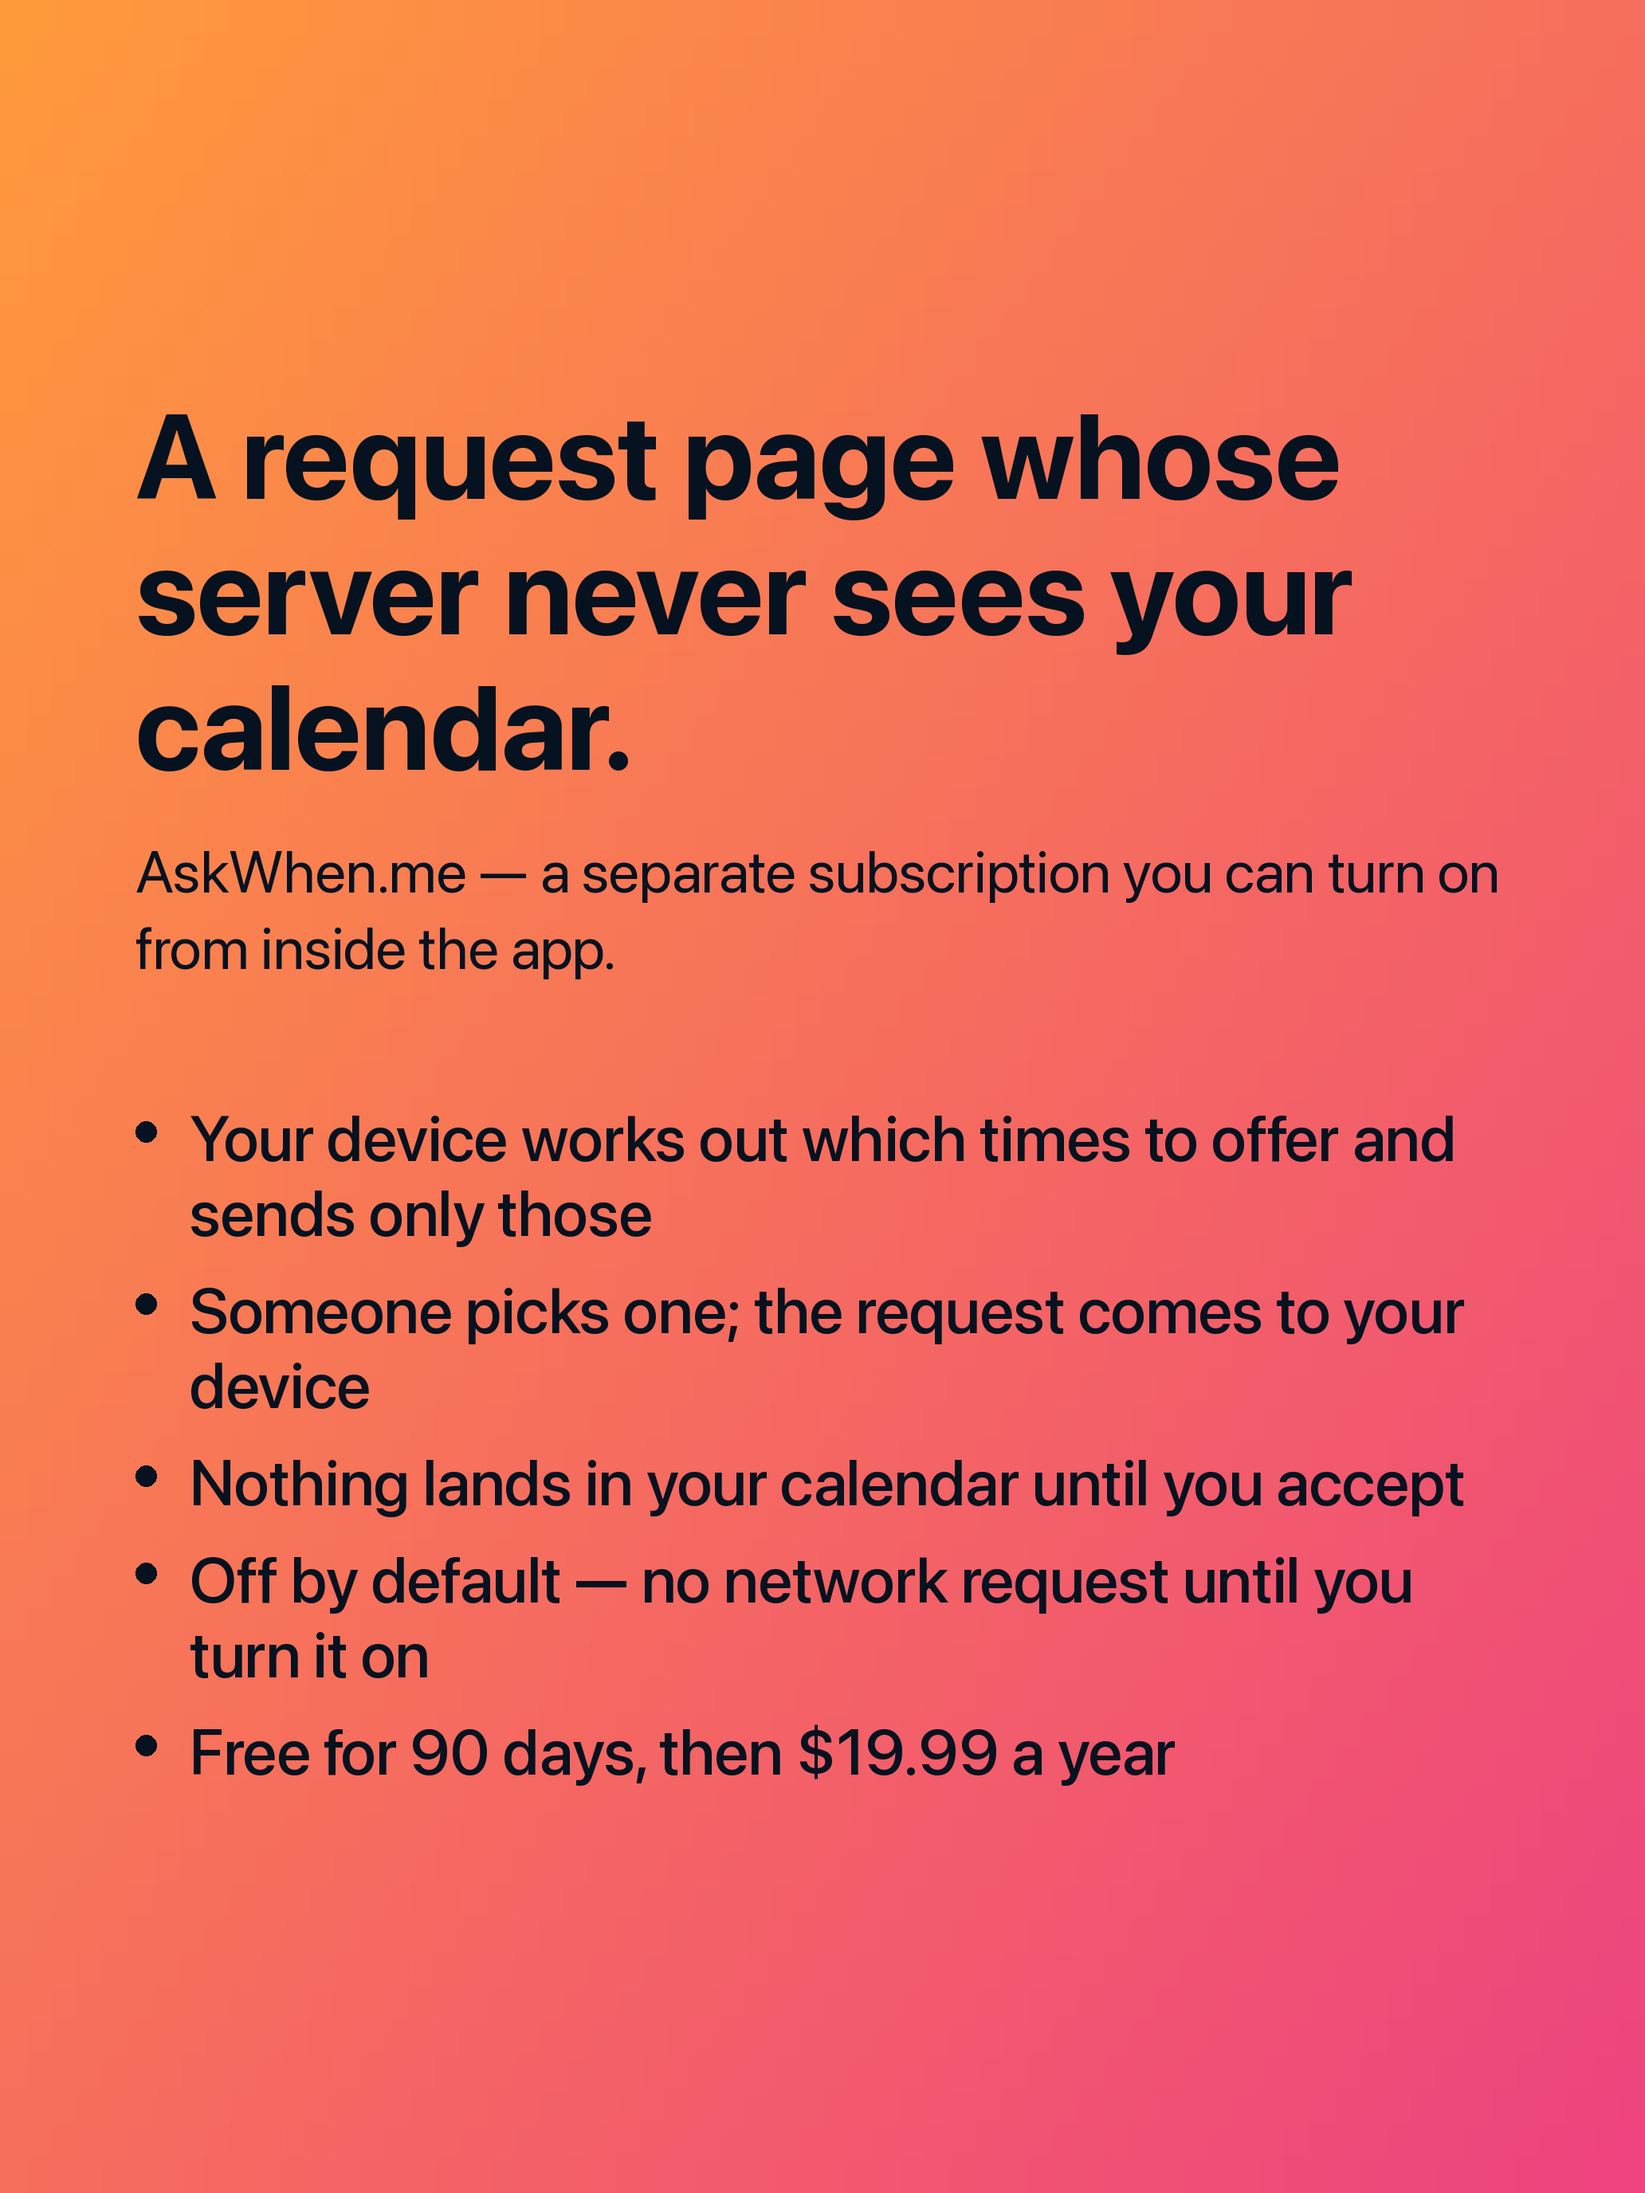
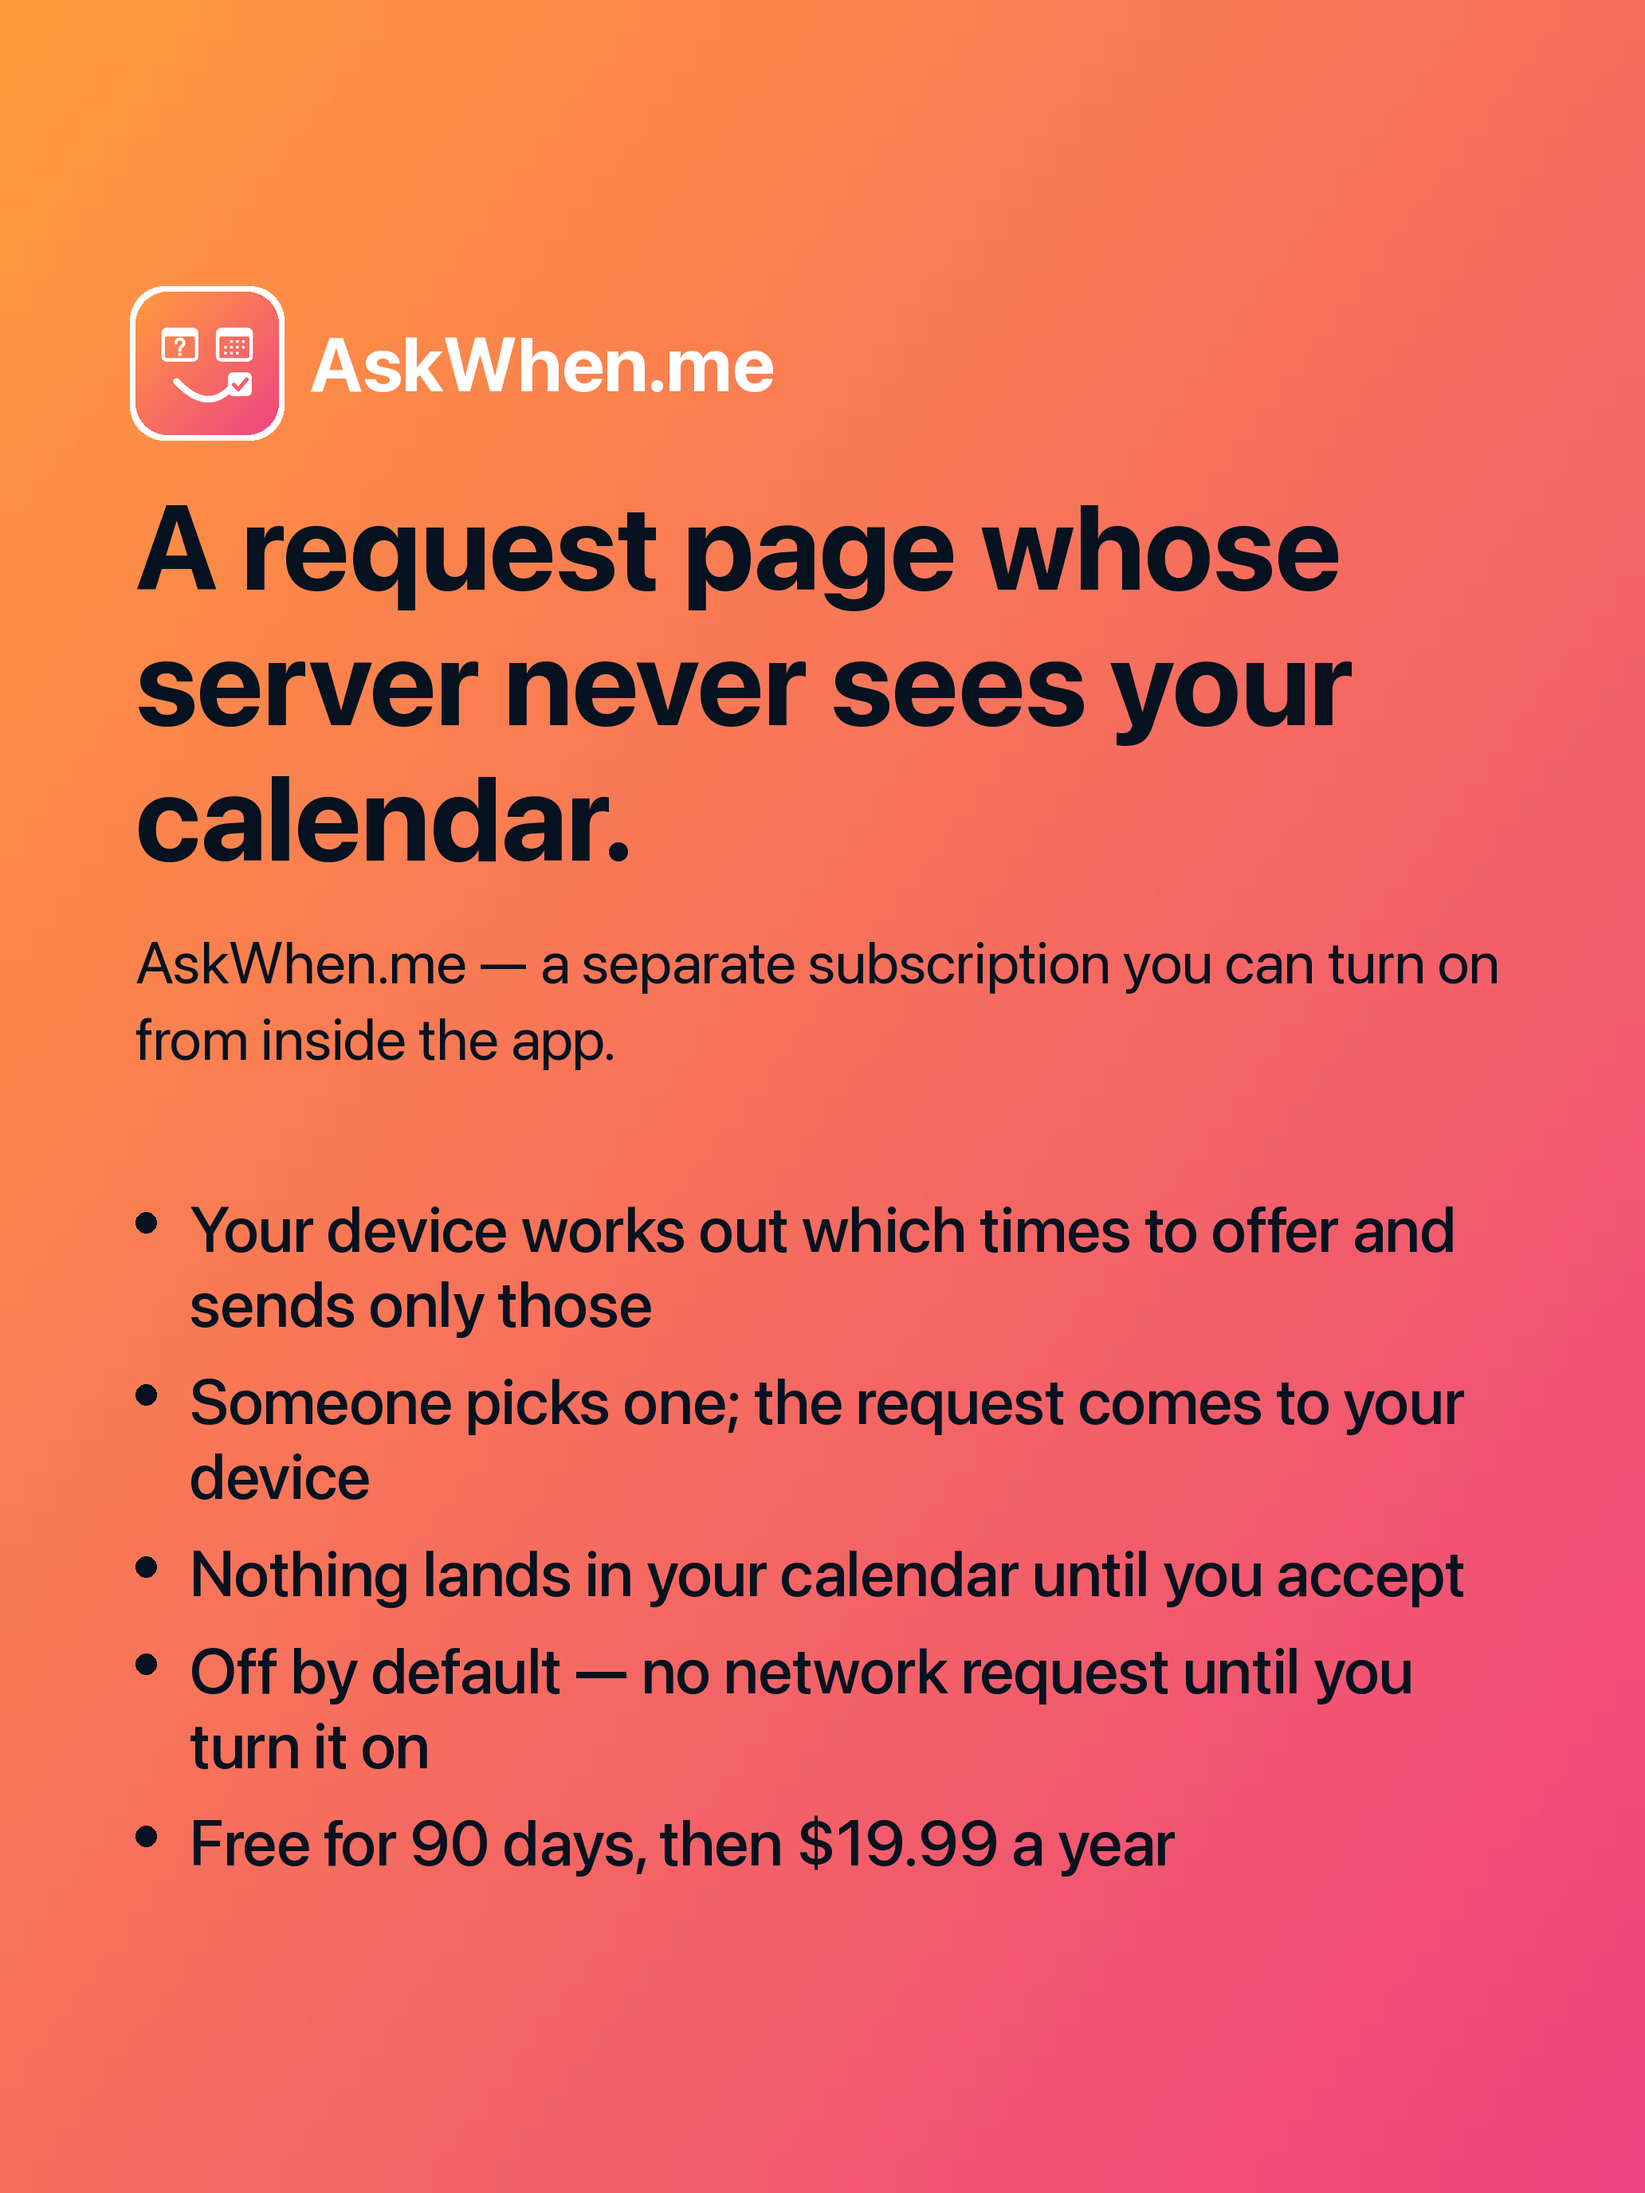
Store frame 9 carries the mark and the name
Matt, 17 Sept: the AskWhen.me frame should say whose it is. The mark in a
white ring and "AskWhen.me" in white sit as one row above the headline on
iPhone, iPad and Mac — a lockup, and the one place white sits on the warm
gradient; the frame's words stay ink. Recorded as an exception under the
palette entry in decisions.md. The iPhone crop is shorter to keep the
shot's bottom margin under the taller heading.

Changed region(s): [[0.062, 0.125, 0.8992, 0.875]]

diff --git a/appstore/tools/genstore.py b/appstore/tools/genstore.py
@@ -94,6 +94,43 @@ def rounded(im, radius):
     return im
 
 
+# The AskWhen.me mark beside its name, above a frame that is about AskWhen.me
+# rather than Calendar Mirror: a lockup, in white, with a white ring around
+# the mark so it separates from the gradient it was cut from. Matt's call
+# (17 Sept) and the one place white sits on the warm gradient — a lockup at
+# this size is a logo, not copy; the frame's words stay ink. Per platform:
+# (mark px, name px, ring px, gap under the row).
+BRAND = {"iphone": (150, 84, 6, 40), "ipad": (180, 96, 7, 48), "mac": (84, 44, 3, 22)}
+
+
+def brand_row(base, platform, x, y, max_w, align="left"):
+    """Draw the ringed mark and "AskWhen.me" as one row; return the y below it."""
+    msz, fsz, ring, gap = BRAND[platform]
+    mark = Image.open(os.path.join(HERE, os.pardir, "sources", "askwhen-promo-1024.png"))
+    mark = rounded(mark.resize((msz, msz), Image.LANCZOS), int(msz * 0.2237))
+    fnt = font(fsz, "Bold")
+    d = ImageDraw.Draw(base)
+    name = "AskWhen.me"
+    tw = d.textlength(name, font=fnt)
+    pad = int(msz * 0.22)
+    row_w = msz + pad + tw
+    rx = int(x if align == "left" else x + (max_w - row_w) / 2)
+    # The ring: a white rounded square one ring-width larger on every side,
+    # at the same corner ratio, with the mark composited over it.
+    d.rounded_rectangle([rx - ring, y - ring, rx + msz + ring - 1, y + msz + ring - 1],
+                        radius=int((msz + 2 * ring) * 0.2237), fill=W)
+    base.alpha_composite(mark, (rx, y))
+    # Centre the name on the mark's vertical middle.
+    ty = y + (msz - fsz * 1.2) / 2
+    d.text((rx + msz + pad, ty), name, font=fnt, fill=W)
+    return y + msz + gap
+
+
+def brand_height(platform):
+    msz, _, _, gap = BRAND[platform]
+    return msz + gap
+
+
 def paste_shot(base, path, box_w, top, radius=26, crop=None, shadow=48):
     """Scale a capture to box_w and paste centred at y=top, with a soft shadow.
     `crop` is a (l, t, r, b) box applied before scaling."""
@@ -219,12 +256,12 @@ FRAMES = [
                               "On the clipboard, ready to paste anywhere",
                               "Also a Shortcuts action and a Siri phrase"])),
     # 9 — 2.0. AskWhen.me, as the preview the owner sees before the offer. Every word of the frame is glossary.md: a request page, never booking.
-    dict(kind="shot", grad=G_WARM, fg="ink",
+    dict(kind="shot", grad=G_WARM, fg="ink", brand=True,
          head="A request page whose server never sees your calendar.",
          sub="AskWhen.me — a separate subscription you can turn on. Your device chooses the times; nothing lands until you accept.",
          shot=dict(iphone="ios-askwhen-light.png"),
-         crop=dict(iphone=(0, 0, 1206, 1900)),
-         ipad_swap=dict(kind="list", grad=G_WARM, fg="ink",
+         crop=dict(iphone=(0, 0, 1206, 1720)),
+         ipad_swap=dict(kind="list", grad=G_WARM, fg="ink", brand=True,
                         head="A request page whose server never sees your calendar.",
                         sub="AskWhen.me — a separate subscription you can turn on from inside the app.",
                         items=["Your device works out which times to offer and sends only those",
@@ -232,7 +269,7 @@ FRAMES = [
                                "Nothing lands in your calendar until you accept",
                                "Off by default — no network request until you turn it on",
                                "Free for 90 days, then $19.99 a year"]),
-         mac_swap=dict(kind="list", grad=G_WARM, fg="ink",
+         mac_swap=dict(kind="list", grad=G_WARM, fg="ink", brand=True,
                        head="A request page whose server never sees your calendar.",
                        sub="AskWhen.me — a separate subscription you can turn on from inside the app.",
                        items=["Your Mac works out which times to offer and sends only those",
@@ -352,14 +389,19 @@ def build(platform, idx, spec):
             bh += len(wrap(d0, it, bf, maxw - int(bf.size * 0.85))) * int(bf.size * 1.18)
             bh += int(bf.size * (1.9 - 1.18) * 0.5)
         block = (len(wrap(d0, spec["head"], hf, maxw)) * int(hf.size * 1.14) + m["gap"]
-                 + len(wrap(d0, spec["sub"], sf, maxw)) * int(sf.size * 1.3) + gap2 + bh)
+                 + len(wrap(d0, spec["sub"], sf, maxw)) * int(sf.size * 1.3) + gap2 + bh
+                 + (brand_height(platform) if spec.get("brand") else 0))
         y = max(m["top"], (size[1] - block) // 2)
+        if spec.get("brand"):
+            y = brand_row(base, platform, m["margin"], y, maxw)
         y = text_block(base, spec["head"], hf, m["margin"], y, maxw, W, spacing=1.14)
         y = text_block(base, spec["sub"], sf, m["margin"], y + m["gap"], maxw, SUB, spacing=1.3)
         y += gap2
         bullets(base, spec["items"], bf, m["margin"], y, maxw, W, dot=DOT)
 
     else:  # portrait shot
+        if spec.get("brand"):
+            y = brand_row(base, platform, m["margin"], y, maxw, align="center")
         y = text_block(base, spec["head"], font(m["head"], "Bold"), m["margin"], y, maxw, W,
                        spacing=1.12, align="center")
         y = text_block(base, spec["sub"], font(m["sub"], "Regular"), m["margin"], y + m["gap"],

diff --git a/askwhen/design/decisions.md b/askwhen/design/decisions.md
@@ -574,6 +574,12 @@ on amber is 2.1:1), and since amber is 2:1 against a light surface — short
 of a control's 3:1 edge — light mode gives the fill a 1.5pt accent border
 (4.8:1) and dark mode, where amber is 9:1 against the page, none.
 
+One exception, also Matt's, the same day: **the store frame's lockup is
+white** — the mark in a white ring, "AskWhen.me" in white beside it, above
+the frame's headline on all three platforms. It is a logo at 84–180px, not
+copy, and the frame's words stay ink. Chosen knowing white is 2.1:1 on the
+amber end; silver was offered as the alternative and is lower still.
+
 **The row for a page the Keychain knows and the device does not says
 "Reconnect".** *(16 September 2026)* Matt. Not *Carry on* (promises the
 setup back, when only the address and the key survive), not *Set up* (reads
